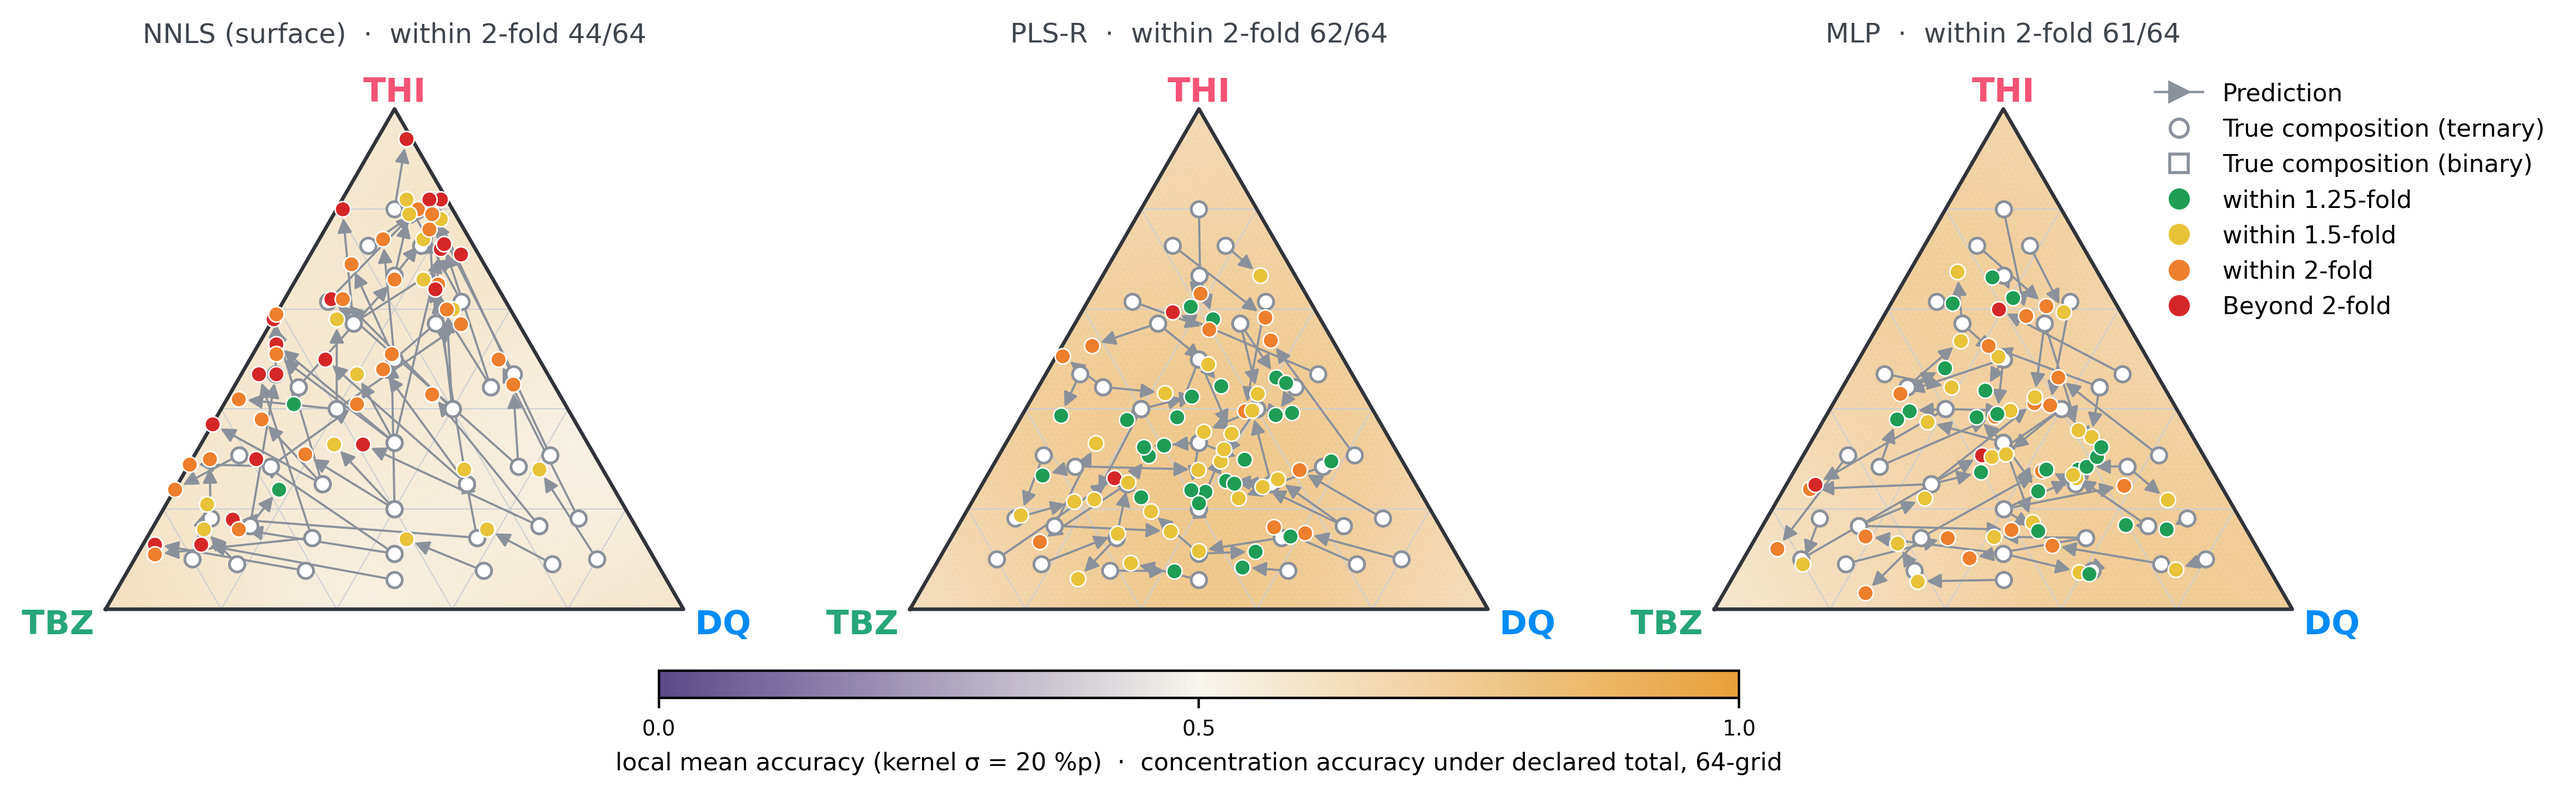
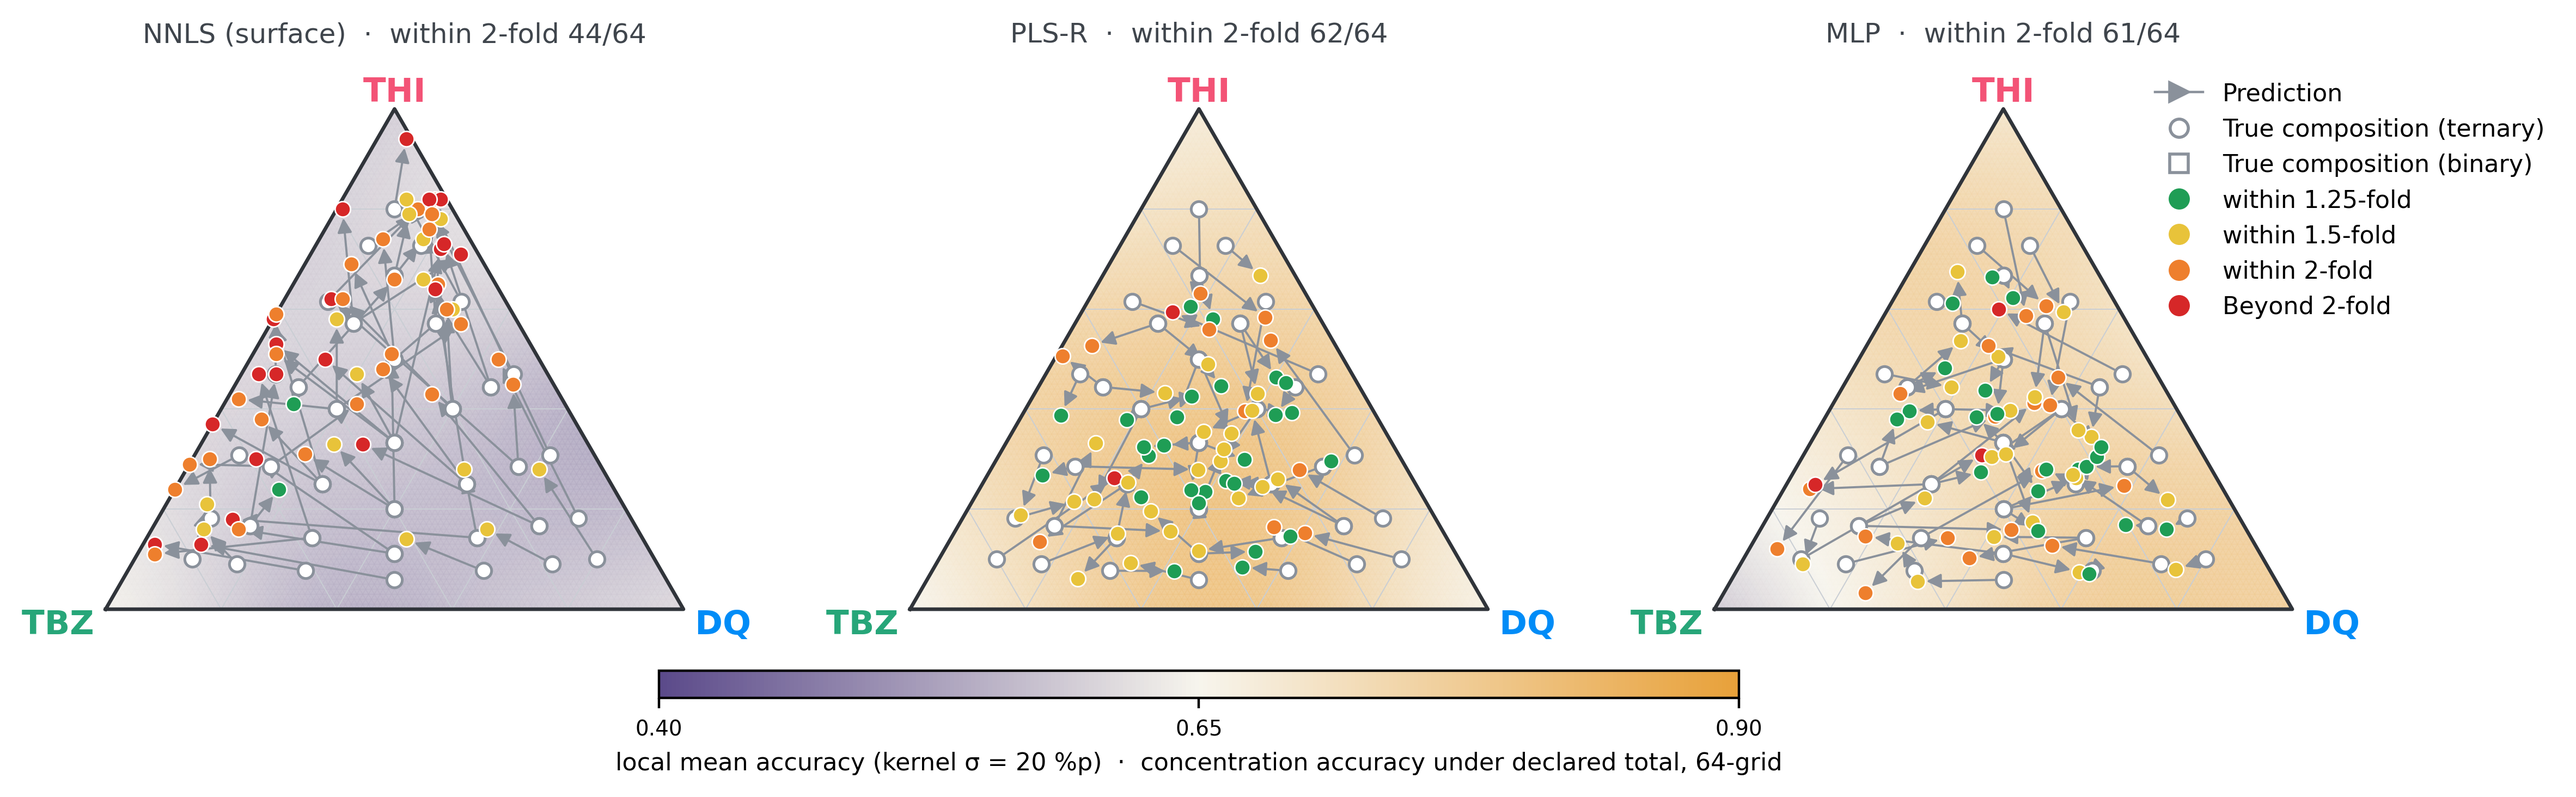
27g: --vrange for the background colour axis; paper final rendered with mean accuracy stretched 0.4-0.9

diff --git a/documentation/scripts/fig27g_ternary_rb_background.py b/documentation/scripts/fig27g_ternary_rb_background.py
@@ -182,6 +182,7 @@ def band_of(f):
 FOLD_FROM_SHARES = False
 ACC_THRESHOLDS = None     # (t1, t2, t3): accuracy 열을 직접 밴드로 자르는 임계값
 FIELD = "fraction"        # 배경: fraction = 정답 비율, mean = accuracy 국소 평균
+VRANGE = (0.0, 1.0)       # 배경 색축 범위
 CORRECT_BAND = 2          # 정답 = 밴드 index ≤ 이 값 (0: 1.25배, 1: 1.5배, 2: 2배)
 DISCRETE = False          # 배경 3단 이산색
 ALPHA = 0.82
@@ -237,7 +238,7 @@ def draw(ax, method, pairs, sigma, title):
         ax.tricontourf(tri, frac, levels=[0, 1 / 3, 2 / 3, 1.0001],
                        colors=BG3, alpha=ALPHA, zorder=0)
     else:
-        ax.tripcolor(tri, frac, cmap=BG, vmin=0, vmax=1, shading="gouraud",
+        ax.tripcolor(tri, frac, cmap=BG, vmin=VRANGE[0], vmax=VRANGE[1], shading="gouraud",
                      alpha=ALPHA, zorder=0, rasterized=True)
     vx, vy = to_xy(np.array([[0, 100, 0], [100, 0, 0], [0, 0, 100], [0, 100, 0]]))
     ax.plot(vx, vy, color="#30343a", lw=1.2, zorder=3)
@@ -297,6 +298,8 @@ def main():
                     metavar=("T1", "T2", "T3"),
                     help="band the accuracy column at these cut-offs instead of 1/fold "
                          "(e.g. 0.887 0.786 0.5 reproduces the user's MLP figure)")
+    ap.add_argument("--vrange", nargs=2, type=float, default=None, metavar=("LO", "HI"),
+                    help="background colour-axis range (default 0-1; e.g. 0.4 0.9 for --field mean)")
     ap.add_argument("--field", choices=["fraction", "mean"], default="fraction",
                     help="background: local fraction within --correct-band, or local mean accuracy")
     ap.add_argument("--methods", default="nnls,pls,mlp",
@@ -314,8 +317,9 @@ def main():
     global FOLD_FROM_SHARES, CORRECT_BAND, DISCRETE, ALPHA, CONTINUOUS, BG, BG3, ACC_THRESHOLDS
     DISCRETE = bool(a.discrete); ALPHA = float(a.alpha); CONTINUOUS = bool(a.continuous)
     ACC_THRESHOLDS = tuple(a.acc_thresholds) if a.acc_thresholds else None
-    global FIELD
+    global FIELD, VRANGE
     FIELD = a.field
+    VRANGE = tuple(a.vrange) if a.vrange else (0.0, 1.0)
     BG, BG3 = PALETTES[a.palette]
     FOLD_FROM_SHARES = bool(a.fold_from_shares)
     CORRECT_BAND = {1.25: 0, 1.5: 1, 2.0: 2}[a.correct_band]
@@ -379,7 +383,7 @@ def main():
     from matplotlib.colors import ListedColormap, BoundaryNorm
     sm = (plt.cm.ScalarMappable(cmap=ListedColormap(BG3),
                                 norm=BoundaryNorm([0, 1 / 3, 2 / 3, 1], 3)) if DISCRETE
-          else plt.cm.ScalarMappable(cmap=BG, norm=plt.Normalize(0, 1)))
+          else plt.cm.ScalarMappable(cmap=BG, norm=plt.Normalize(*VRANGE)))
     cb = fig.colorbar(sm, ax=axes, orientation="horizontal", fraction=0.035,
                       pad=0.02, aspect=40)
     cb.set_label((f"local mean accuracy (kernel σ = {a.sigma:.0f} %p)" if a.field == "mean" else
@@ -389,7 +393,8 @@ def main():
                     "final92": "  ·  composition overlap"}[a.source]
                  + (", 64-grid" if (a.subset == "grid64" or a.source == "grid64") else ", 92 conditions"),
                  fontsize=8)
-    cb.set_ticks([0, 0.5, 1]); cb.ax.tick_params(labelsize=7)
+    cb.set_ticks([VRANGE[0], (VRANGE[0] + VRANGE[1]) / 2, VRANGE[1]] if not DISCRETE else [0, 0.5, 1])
+    cb.ax.tick_params(labelsize=7)
     out = os.path.join(RES, f"27g_ternary_rb{tag}.png")
     fig.savefig(out, dpi=400, bbox_inches="tight", facecolor="white")
     print("saved", out)
